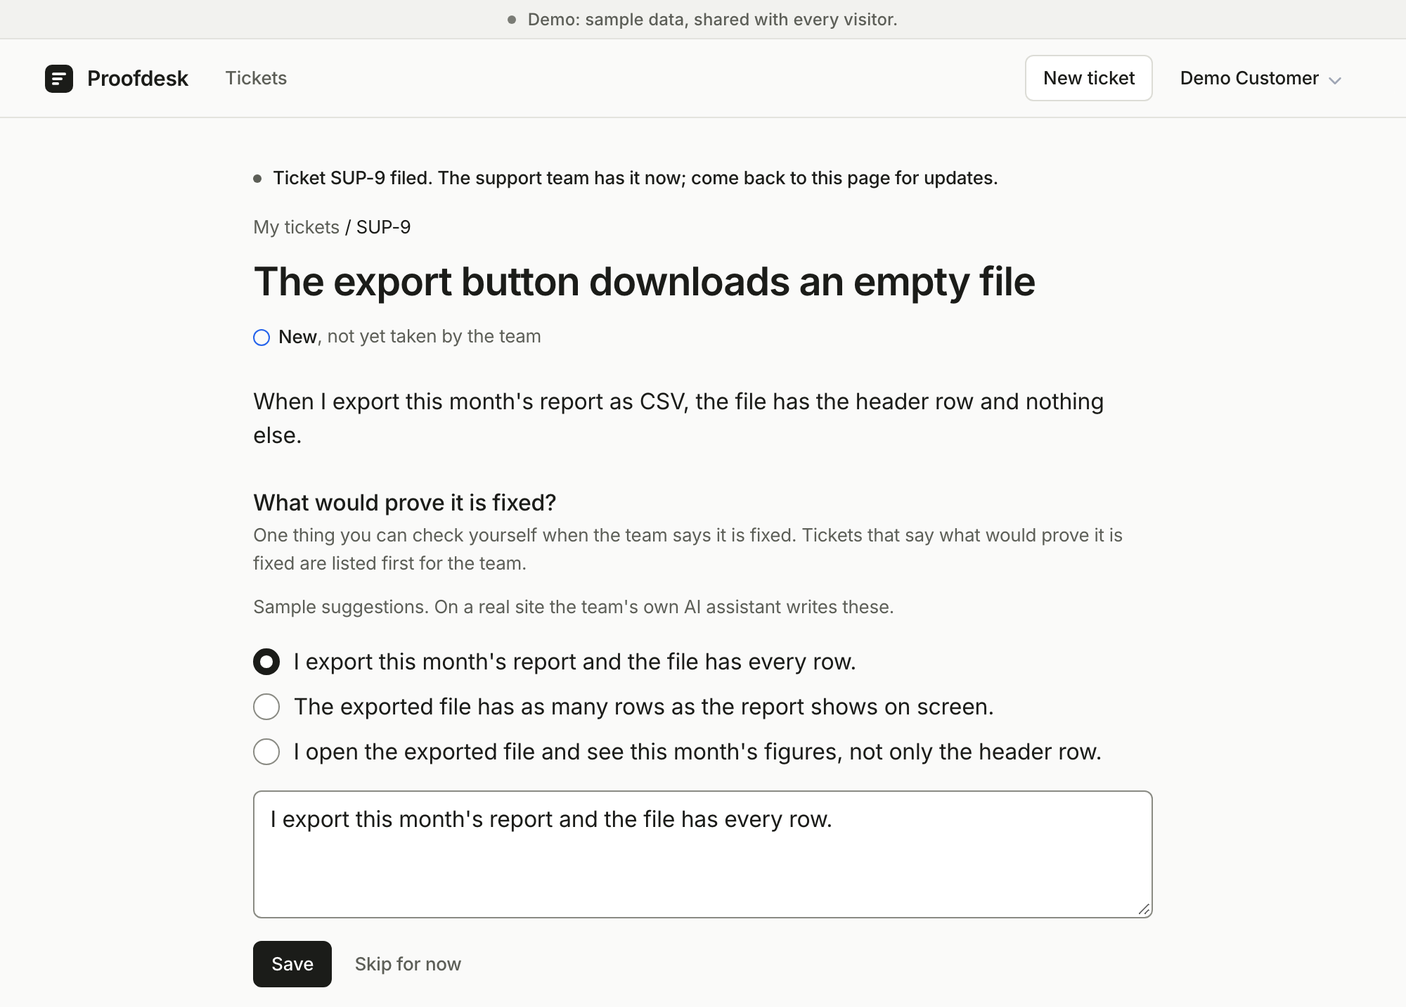
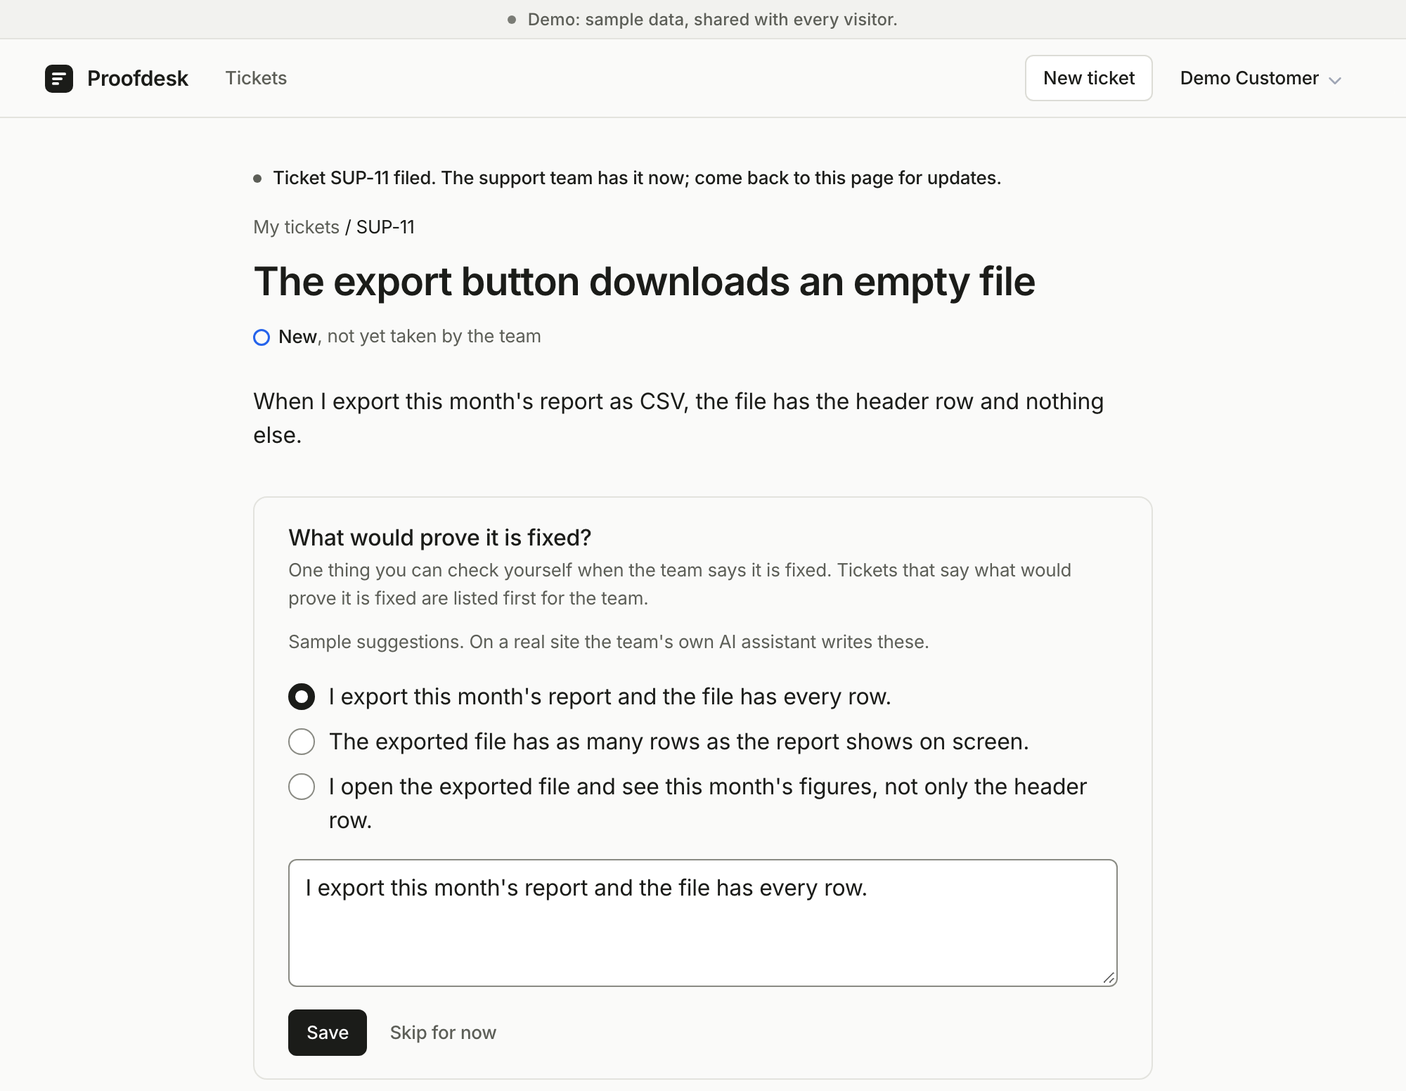
Describe marking fixed as the team's agreement, the age filter and tonight's pictures
The ticket page no longer has a form for a person's evidence: marking a
ticket fixed agrees that the customer's proof was met. The README, the tour,
the spec, the agent guide and the architecture page now say so, the tour
names the age filter, the customer's tag, the marks' legend and the line
after a switch, and the three README pictures were retaken from a fresh
demo. The two docs tests that lost an expectation in the last pass check
the agreement line instead.

diff --git a/tests/docs/readme.test.ts b/tests/docs/readme.test.ts
@@ -70,8 +70,10 @@ describe("the feature list and the README's walkthrough", () => {
     const walkLabels = [...walk.matchAll(/\*\*([^*]+)\*\*/g)].map((m) => m[1]!);
     expect(walkLabels.length).toBeGreaterThan(6);
     for (const label of walkLabels) labels.add(label);
-    // The ticket page's own "Add evidence of the fix" form was removed; the docs follow the merge.
-    labels.delete("Add evidence of the fix");
+    // The tour quotes the line above "Mark fixed and tell the customer" that says marking it
+    // fixed agrees the customer's proof was met; the team's page after taking shows it.
+    const oath = "By marking it fixed, you agree this is met:";
+    expect(tour.replace(/\s+/g, " ")).toContain(`\`${oath} "<their words>"\``);
 
     // The pages a visitor passes through on the demo, and the real site's sign-in.
     const demo = buildTestApp({ DEMO: "on", DEV_SIGN_IN: "off" });
@@ -116,5 +118,6 @@ describe("the feature list and the README's walkthrough", () => {
       .map((res) => parse(res.text).querySelector("body")!.text.replace(/\s+/g, " "))
       .join(" ");
     for (const label of labels) expect(shown, label).toContain(label);
+    expect(shown).toContain(oath);
   });
 });

diff --git a/tests/docs/docs-followup.test.ts b/tests/docs/docs-followup.test.ts
@@ -19,7 +19,18 @@ describe("the labels the finishing pass renamed", () => {
     expect(read("views/header.ejs")).toContain('class="outline new-ticket">New<span');
 
     expect(tour).toContain("the customer's button reads **Send to the team**");
-    expect(tour).toContain("**Add evidence of the fix**");
+    // Marking fixed is the team member's agreement that the customer's proof was met; the page
+    // has no form for a person's evidence, so no guide sends a reader to one.
+    expect(show).toContain("By marking it fixed, you agree this is met:");
+    expect(show).not.toContain("Add evidence of the fix");
+    expect(tour).toContain('`By marking it fixed, you agree this is met: "<their words>"`');
+    for (const file of [
+      "README.md",
+      "docs/TOUR.md",
+      "docs/AGENTS_GUIDE.md",
+      "docs/ARCHITECTURE.md",
+    ])
+      expect(read(file), file).not.toContain("Add evidence of the fix");
     expect(tour).toContain("linked as **Emails sent about this ticket** under More options");
     expect(tour).toContain('in the box that reads "Search, then press Enter"');
     expect(tour).toContain("on a phone the header's button reads **New**");

diff --git a/README.md b/README.md
@@ -13,7 +13,7 @@ Say what would prove it is fixed, and your ticket is listed first and checked ag
 - **The production site, with GitHub sign-in: <https://proofdesk.fly.dev>.**
 - **The source: <https://github.com/yylerbrown/proofdesk>.**
 
-<img src="docs/img/ticket-list.png" width="720" alt="The team member's ticket list on the demo, which has no welcome card: status filters All, New, In Progress and Resolved with a count beside each status, the Mine and Unassigned toggles, a search box reading &quot;Search, then press Enter&quot;, and the sample tickets with their key, title, status, owner and when each was filed, under column headers that sort the list. In the Proof column a pale check marks a ticket that says what would prove it fixed, a solid green check marks one its customer confirmed, and one New ticket has neither">
+<img src="docs/img/ticket-list.png" width="720" alt="The team member's ticket list on the demo, which has no welcome card: status filters All, New, In Progress and Resolved with a count beside each status, the Mine and Unassigned toggles, a &quot;Resolved:&quot; filter reading Last 14 days, Older 2 and Any age, a search box reading &quot;Search, then press Enter&quot;, and the sample tickets with their key, title, status, owner and when each was filed, under column headers that sort the list. In the Proof column a pale check marks a ticket that says what would prove it fixed, a solid green check marks one its customer confirmed, and one New ticket has neither; a line under the list names the two marks">
 
 ## Run it yourself
 
@@ -41,16 +41,16 @@ On the demo, in about two minutes, with eight presses:
 2. The filed ticket asks "What would prove it is fixed?", with three sample suggestions and the
    first in the box. Press **Save**: the ticket is **New**, with your words under that label.
 
-<img src="docs/img/what-would-prove-it.png" width="560" alt="The step after filing: under &quot;What would prove it is fixed?&quot; two grey lines, a hint and a note that these are sample suggestions, then three sample suggestions to pick from, a box holding the first one, and the buttons &quot;Save&quot; and &quot;Skip for now&quot;">
+<img src="docs/img/what-would-prove-it.png" width="560" alt="The step after filing, in a bordered card: under &quot;What would prove it is fixed?&quot; two grey lines, a hint and a note that these are sample suggestions, then three sample suggestions to pick from, a box holding the first one, and the buttons &quot;Save&quot; and &quot;Skip for now&quot;">
 
 3. Press **View this ticket as a team member**, then **Take ticket and start work**. The ticket
    is **In Progress**, and you own it.
-4. Press **Mark fixed and tell the customer**: the ticket is **Resolved** at once.
+4. Press **Mark fixed and tell the customer**, agreeing the proof above it was met: it is **Resolved**.
 5. Press **View this ticket as the customer who filed it**, then **Yes, it is fixed** under "Did
    this fix it?": the ticket reads "Resolved, customer confirmed", with a solid green check in
    the list's Proof column.
 
-<img src="docs/img/did-this-fix-it.png" width="560" alt="The customer's view of a ticket the team marked fixed: &quot;Resolved, the team says it is fixed&quot; under the title, then &quot;Did this fix it?&quot; over their own words, then the button &quot;Yes, it is fixed&quot; and the fold-open &quot;No, it is not fixed&quot;">
+<img src="docs/img/did-this-fix-it.png" width="560" alt="The customer's view of a ticket the team marked fixed: &quot;Resolved, the team says it is fixed&quot; under the title, then a bordered card with &quot;Did this fix it?&quot; over their own words, then the button &quot;Yes, it is fixed&quot; and the fold-open &quot;No, it is not fixed&quot;">
 
 The customer's Yes is optional, and their "No, it is not fixed" sends the ticket back to the
 team with their words. The team's Status menu, under the title, moves a ticket between New and
@@ -79,11 +79,11 @@ chooses who is on the team on the **People** page, and the change applies on tha
 page. People named in the server settings keep that role and show as locked on **People**. The
 menu under each person's name links their account page, with a switch for email notices.
 
-| Role        | How someone gets it                                       | What they do                                                                                                                                                                                                                                                                                                                                                  |
-| ----------- | --------------------------------------------------------- | ------------------------------------------------------------------------------------------------------------------------------------------------------------------------------------------------------------------------------------------------------------------------------------------------------------------------------------------------------------- |
-| Customer    | Everyone, at first sign-in.                               | Files tickets and says what would prove each one fixed. Reads, edits, replies on and archives their own, answers "Did this fix it?", and reopens a resolved ticket that is still broken. Never sees internal notes.                                                                                                                                           |
-| Team member | An admin chooses it on **People**, or `TEAM_GITHUB_IDS`.  | Sees every ticket, takes one and starts work, replies, writes internal notes, attaches evidence, marks a ticket fixed and tells the customer, archives and restores. Hands on a ticket they own, resolves with a reason a ticket they own or a New ticket nobody owns, and can reopen it if the team resolved it. Changes many tickets at once from the list. |
-| Admin       | An admin chooses it on **People**, or `ADMIN_GITHUB_IDS`. | Everything a team member does. Hands on or resolves any open ticket, can reopen any ticket the team resolved, chooses who is on the team, issues AI assistant connections on **Connections**, and deletes a ticket permanently.                                                                                                                               |
+| Role        | How someone gets it                                       | What they do                                                                                                                                                                                                                                                                                                                                                            |
+| ----------- | --------------------------------------------------------- | ----------------------------------------------------------------------------------------------------------------------------------------------------------------------------------------------------------------------------------------------------------------------------------------------------------------------------------------------------------------------- |
+| Customer    | Everyone, at first sign-in.                               | Files tickets and says what would prove each one fixed. Reads, edits, replies on and archives their own, answers "Did this fix it?", and reopens a resolved ticket that is still broken. Never sees internal notes.                                                                                                                                                     |
+| Team member | An admin chooses it on **People**, or `TEAM_GITHUB_IDS`.  | Sees every ticket, takes one and starts work, replies, writes internal notes, marks a ticket fixed (agreeing its proof was met) and tells the customer, archives and restores. Hands on a ticket they own, resolves with a reason a ticket they own or a New ticket nobody owns, and can reopen it if the team resolved it. Changes many tickets at once from the list. |
+| Admin       | An admin chooses it on **People**, or `ADMIN_GITHUB_IDS`. | Everything a team member does. Hands on or resolves any open ticket, can reopen any ticket the team resolved, chooses who is on the team, issues AI assistant connections on **Connections**, and deletes a ticket permanently.                                                                                                                                         |
 
 On the demo there is no sign-in: you start as Demo Customer, and the menu at the top right
 switches to Demo Team Member or Demo Admin (read-only), who sees everything and changes nothing.

diff --git a/docs/TOUR.md b/docs/TOUR.md
@@ -21,15 +21,15 @@ Each one takes under a minute on the demo, which opens on the ticket list as the
 
 **Ticket list with filters**
 
-- Start as: The menu at the top right, then **Demo Team Member**
+- Start as: The menu at the top right, then **Demo Team Member**; the next page says once "You are now Demo Team Member."
 - Press: **New**, **In Progress**, **Resolved**; **Mine** and **Unassigned**; type words, or a ticket's key such as SUP-3, in the box that reads "Search, then press Enter", and press Enter; a column header such as **Title** or **Filed**, then the same header again
-- You should see: "All tickets", with a count beside each status, and each filter changes the list; a lit filter pressed again clears it. A typed key opens that ticket. Words match in any order and form, so "sign in phone" finds "Cannot sign in on my phone". A header sorts the list by its column, with an arrow on it, and a second press reverses it. Filters, search and sort combine in the address, so a view can be shared. On a phone the same sorts sit in a "Sort by" line above the list. A short grey tag follows the status when it is not simply the team's turn, such as "Customer says not fixed" or "Assistant asks for review". A customer's list is "My tickets": only their own, with the search, and "Did this fix it?" on a ticket waiting for their answer.
+- You should see: "All tickets", with a count beside each status, and each filter changes the list; a lit filter pressed again clears it. A typed key opens that ticket. Words match in any order and form, so "sign in phone" finds "Cannot sign in on my phone". A header sorts the list by its column, with an arrow on it, and a second press reverses it. Filters, search and sort combine in the address, so a view can be shared. On a phone the same sorts sit in a "Sort by" line above the list. A short grey tag follows the status when it is not simply the team's turn, such as "Customer says not fixed" or "Assistant asks for review". A customer's list is "My tickets": only their own, with the search. A ticket the team marked fixed comes first there, tagged "Needs your answer", which links to "Did this fix it?".
 
 **The Proof column and the list's order**
 
 - Start as: Demo Team Member, on All tickets
 - Press: Nothing at first; then a column header, to sort by it instead
-- You should see: A narrow **Proof** column after Status. A pale grey check says the ticket states what would prove it is fixed, a solid green circle with a check says the customer confirmed it, and a ticket with neither has no mark. With no header pressed, New tickets that say what would prove them fixed come first, newest first, then the other open tickets, then resolved ones. All shows open tickets and those resolved in the last 14 days; a line under the list says how many older resolved tickets are under Resolved.
+- You should see: A narrow **Proof** column after Status. A pale grey check says the ticket states what would prove it is fixed, a solid green circle with a check says the customer confirmed it, and a ticket with neither has no mark. One quiet line under the list names both marks: "Says what would prove it is fixed" and "Customer confirmed". With no header pressed, New tickets that say what would prove them fixed come first, newest first, then the other open tickets, then resolved ones. On All, with nothing searched, a "Resolved:" filter reads **Last 14 days**, **Older** with its count, and **Any age**. Last 14 days is the default; the other two add `?resolved=older` or `?resolved=any` to the address. The demo has two samples resolved more than 14 days ago, SUP-9 and SUP-10, under Older.
 
 **Update status: New to In Progress**
 
@@ -41,7 +41,7 @@ Each one takes under a minute on the demo, which opens on the ticket list as the
 
 - Start as: Demo Team Member, owning the ticket you filed
 - Press: **Mark fixed and tell the customer**, then **View this ticket as the customer who filed it** and **Yes, it is fixed**
-- You should see: The ticket is resolved at once: "Resolved by the team: Fixed. Demo Team Member, <day>. The customer has not confirmed it." The customer reads "Did this fix it?" over their own words. Their Yes is optional and shows "Resolved, customer confirmed" with the solid check in the list. "No, it is not fixed" asks "What is still wrong?", and "No, send it back" reopens the ticket with their words. The Status menu's Resolved opens "Why are you resolving this ticket?" with five reasons, from "Fixed (the customer is told)" to "Other", and the ticket shows `Resolved by the team: <reason>` to everyone. To ask the customer before resolving, use **Ask before resolving** under **More options**.
+- You should see: Above the button, one grey line quotes the customer: `By marking it fixed, you agree this is met: "<their words>"`. Marking it fixed is your agreement that their proof was met, and History records "Resolved by the team: Fixed. Agreed that what would prove it is fixed was met. Not customer-confirmed." Anything else you want to show the customer goes in the conversation. The ticket is resolved at once: "Resolved by the team: Fixed. Demo Team Member, <day>. The customer has not confirmed it." The customer reads "Did this fix it?" over their own words. Their Yes is optional and shows "Resolved, customer confirmed" with the solid check in the list. "No, it is not fixed" asks "What is still wrong?", and "No, send it back" reopens the ticket with their words. The Status menu's Resolved opens "Why are you resolving this ticket?" with five reasons, from "Fixed (the customer is told)" to "Other", and the ticket shows `Resolved by the team: <reason>` to everyone. To ask the customer before resolving, use **Ask before resolving** under **More options**.
 
 **Possible duplicates**
 
@@ -59,7 +59,7 @@ Each one takes under a minute on the demo, which opens on the ticket list as the
 
 - Start as: Demo Team Member, on All tickets
 - Press: The tick box before two keys, then **Set status** or **Assign to**, and **Apply**
-- You should see: A bar over the filter row, "2 selected", with Set status, Assign to, Apply and Clear; it stays in view while scrolling. Resolved there offers three reasons. One line after Apply says what moved and why the rest did not, such as "1 moved to Resolved. 1 was not changed:" with each key left as it was and its reason. Each ticket goes through the same rules as on its own page.
+- You should see: A bar over the filter row, "2 selected", with Set status, Assign to, Apply and Clear; it stays in view while scrolling. Resolved there offers two reasons, Won't fix and Cannot reproduce; marking a ticket fixed is done on its own page, where its proof is shown. One line after Apply says what moved and why the rest did not, such as "1 moved to Resolved. 1 was not changed:" with each key left as it was and its reason. Each ticket goes through the same rules as on its own page.
 
 **Two people on one ticket**
 
@@ -88,5 +88,5 @@ Each one takes under a minute on the demo, which opens on the ticket list as the
 **Evidence, history and email notices**
 
 - Start as: Any ticket, as the team
-- Press: **History**, and **More options**, then **Add evidence of the fix**
-- You should see: Evidence is labelled as reported, never as verified, and the history cannot be changed. Proofdesk writes an email notice to the customer or the owner when the ticket needs them; marking a ticket fixed sends "Did this fix it?" with the customer's own words. A ticket's notices page (`/tickets/<key>/notices`, such as the ticket you filed), linked as **Emails sent about this ticket** under More options once there is one, shows each notice in its exact words. **Add evidence of the fix** asks what it shows, with an optional link.
+- Press: **History**, and **More options**
+- You should see: Evidence comes from an AI assistant, through the API or the MCP tools, and shows on the ticket labelled as reported, never as verified. A person shows anything else in the conversation. The history cannot be changed. Proofdesk writes an email notice to the customer or the owner when the ticket needs them; marking a ticket fixed sends "Did this fix it?" with the customer's own words. A ticket's notices page (`/tickets/<key>/notices`, such as the ticket you filed), linked as **Emails sent about this ticket** under More options once there is one, shows each notice in its exact words.

diff --git a/docs/SPEC.md b/docs/SPEC.md
@@ -230,3 +230,11 @@ The owner's reason for the product, in his words: "AIs do best when the prompts 
 - **Sign-in.** Microsoft sign-in for one organization sits beside GitHub once its three settings are set. This replaces "other sign-in providers" in the list of things left out, for Microsoft only.
 - **Suggested ways to prove a fix.** An admin sets each connection's Suggestions to Off, When asked or Automatic. A listening assistant answers a customer's request with up to three ways, which fill the step's box; the customer saves their own words. Never on a demo connection, and Proofdesk itself makes no AI calls.
 - **Smaller.** The header is two groups with one person menu; the page after a key is one message to paste; one-job pages sit in a centred column; emails read like emails.
+
+### 2026-11-19, night: marking fixed is the team's agreement
+
+The owner's call: "What would prove it is fixed?" is there so that the person who marks a ticket fixed certifies that the fix did what it says, not so that they reply with evidence. Fixes only; the three statuses are unchanged.
+
+- **Marking fixed agrees the proof.** Above "Mark fixed and tell the customer" one grey line quotes the customer: `By marking it fixed, you agree this is met: "<the proof>"`. The Status menu's Fixed choice shows the same line. History reads "Resolved by the team: Fixed. Agreed that what would prove it is fixed was met. Not customer-confirmed." The ticket page's "Add evidence of the fix" form is gone: a person shows anything else in the conversation. An assistant still attaches evidence through the API and the MCP tools, and it still shows on the ticket as reported. The list's bulk bar no longer offers Fixed, because each ticket's proof is agreed on its own page; the JSON API still accepts it.
+- **Resolved tickets by age.** On All, with nothing searched, a "Resolved:" filter offers Last 14 days (the default), Older with its count, and Any age, kept in the address as `resolved=older` or `resolved=any`. This replaces the line under the list in the entry above. The JSON API is unchanged. The demo has two samples resolved more than 14 days ago.
+- **The customer's list** tags a ticket marked fixed "Needs your answer" and puts it first in their default order.

diff --git a/docs/AGENTS_GUIDE.md b/docs/AGENTS_GUIDE.md
@@ -74,10 +74,10 @@ Ask your assistant:
 
 > Which Proofdesk tickets are waiting on the team? Pick one with a clear check, read its
 > done_when, check whether it is fixed, attach what you found as evidence, and ask the owner to
-> request the customer's check. If you cannot tell, write a note saying why.
+> review it. If you cannot tell, write a note saying why.
 
-Then open the ticket in the browser: the evidence sits beside the check, labelled as reported by
-your assistant, and the note to the owner is in the conversation. The customer's answer is still
+Then open the ticket in the browser as the team: above the next step one grey line starts "Reported
+by the assistant, not checked by Proofdesk", and the note to the owner is in the conversation. The customer's answer is still
 theirs to give.
 
 ## The one path
@@ -94,8 +94,8 @@ theirs to give.
 4. **Attach evidence**: `add_evidence` with what you ran and what it showed. An `ops/prove`
    report can be attached as it is. Evidence is shown as reported by you, never as verified.
 5. **Ask the owner to review**: `ask_owner_to_review`. It writes a note to the ticket's named
-   owner, who reviews your evidence and decides whether to ask the customer. It does not contact
-   the customer. You cannot ask the customer, answer for them, or resolve.
+   owner, who reviews your evidence and decides whether to mark it fixed, which is their own
+   agreement that the customer's check was met. It does not contact the customer. You cannot ask the customer, answer for them, or resolve.
 6. **Stop**: once the evidence is attached and the owner is asked, or once you have written a note
    with `blocked: true` whose first line says what blocks you.
 

diff --git a/docs/ARCHITECTURE.md b/docs/ARCHITECTURE.md
@@ -25,8 +25,8 @@ once work has started.
 ## The ticket's life
 
 - **Three statuses**: New, In Progress and Resolved.
-- The owner's "Mark fixed and tell the customer" resolves a ticket with the reason Fixed and asks
-  the customer "Did this fix it?"; their Yes, there or to a question asked first, marks it
+- The owner's "Mark fixed and tell the customer" is their agreement that the customer's proof was
+  met: it resolves the ticket with the reason Fixed and asks the customer "Did this fix it?"; their Yes, there or to a question asked first, marks it
   "Customer confirmed". Its owner or an admin can also resolve it with another required reason, and so can a team member when nobody owns
   it yet, who then becomes its owner. It shows everywhere as "Resolved by the team: <reason>".
   The customer can reopen either; the owner or an admin can reopen only the team's own
